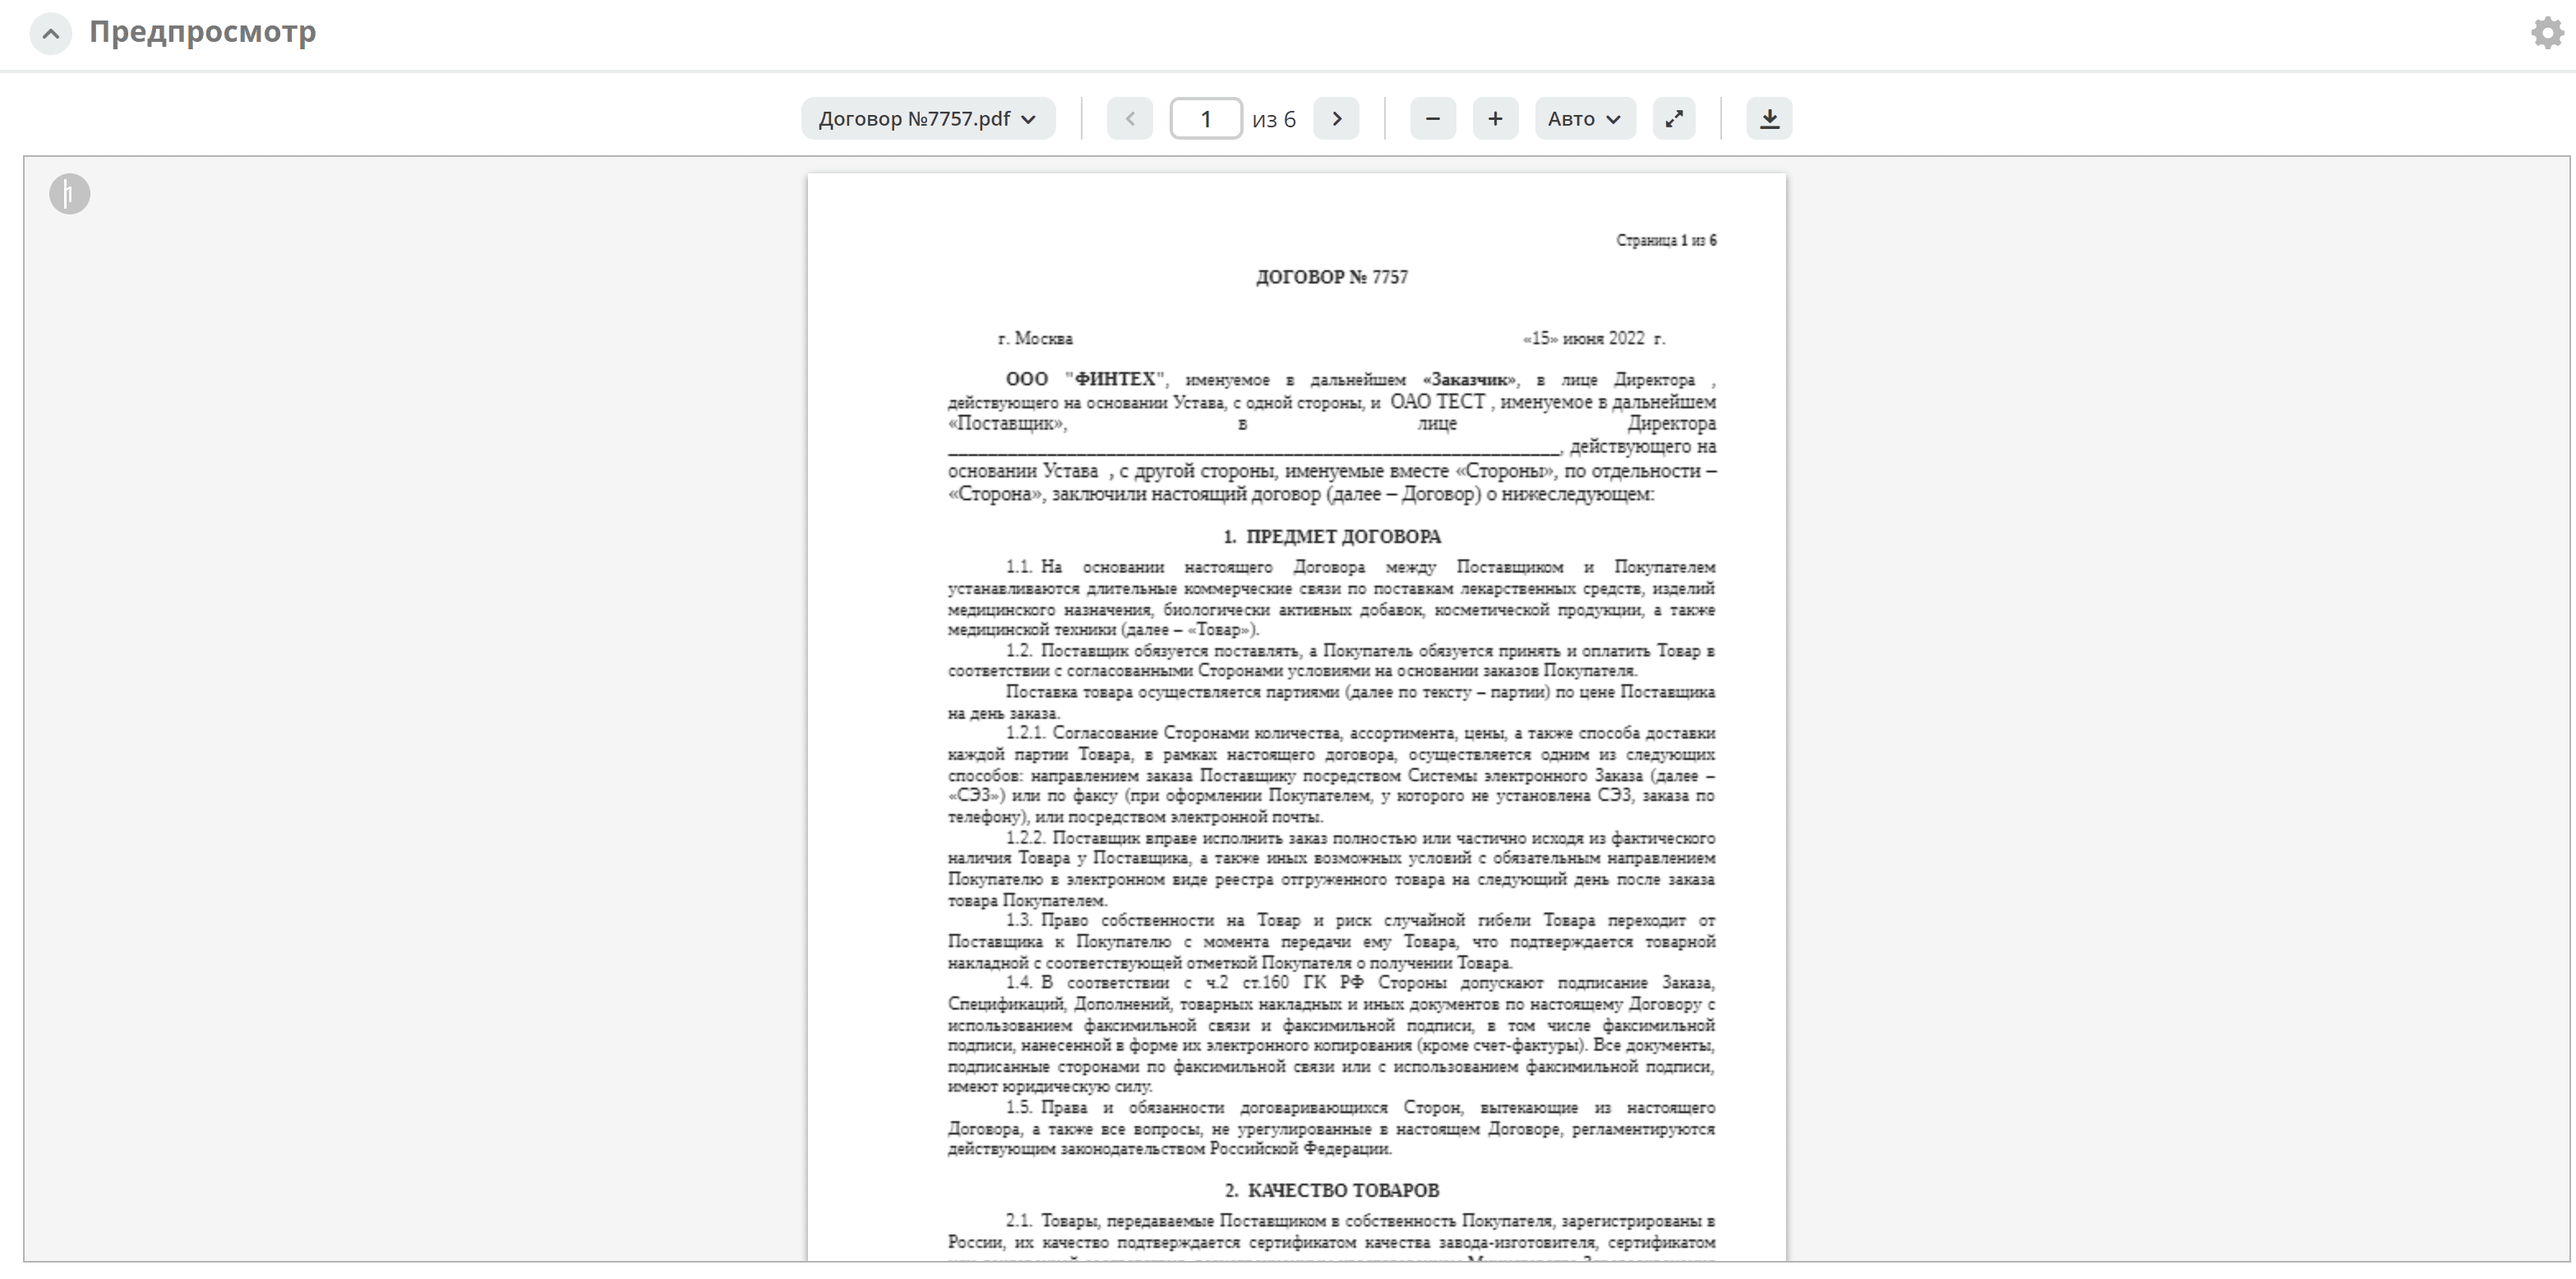
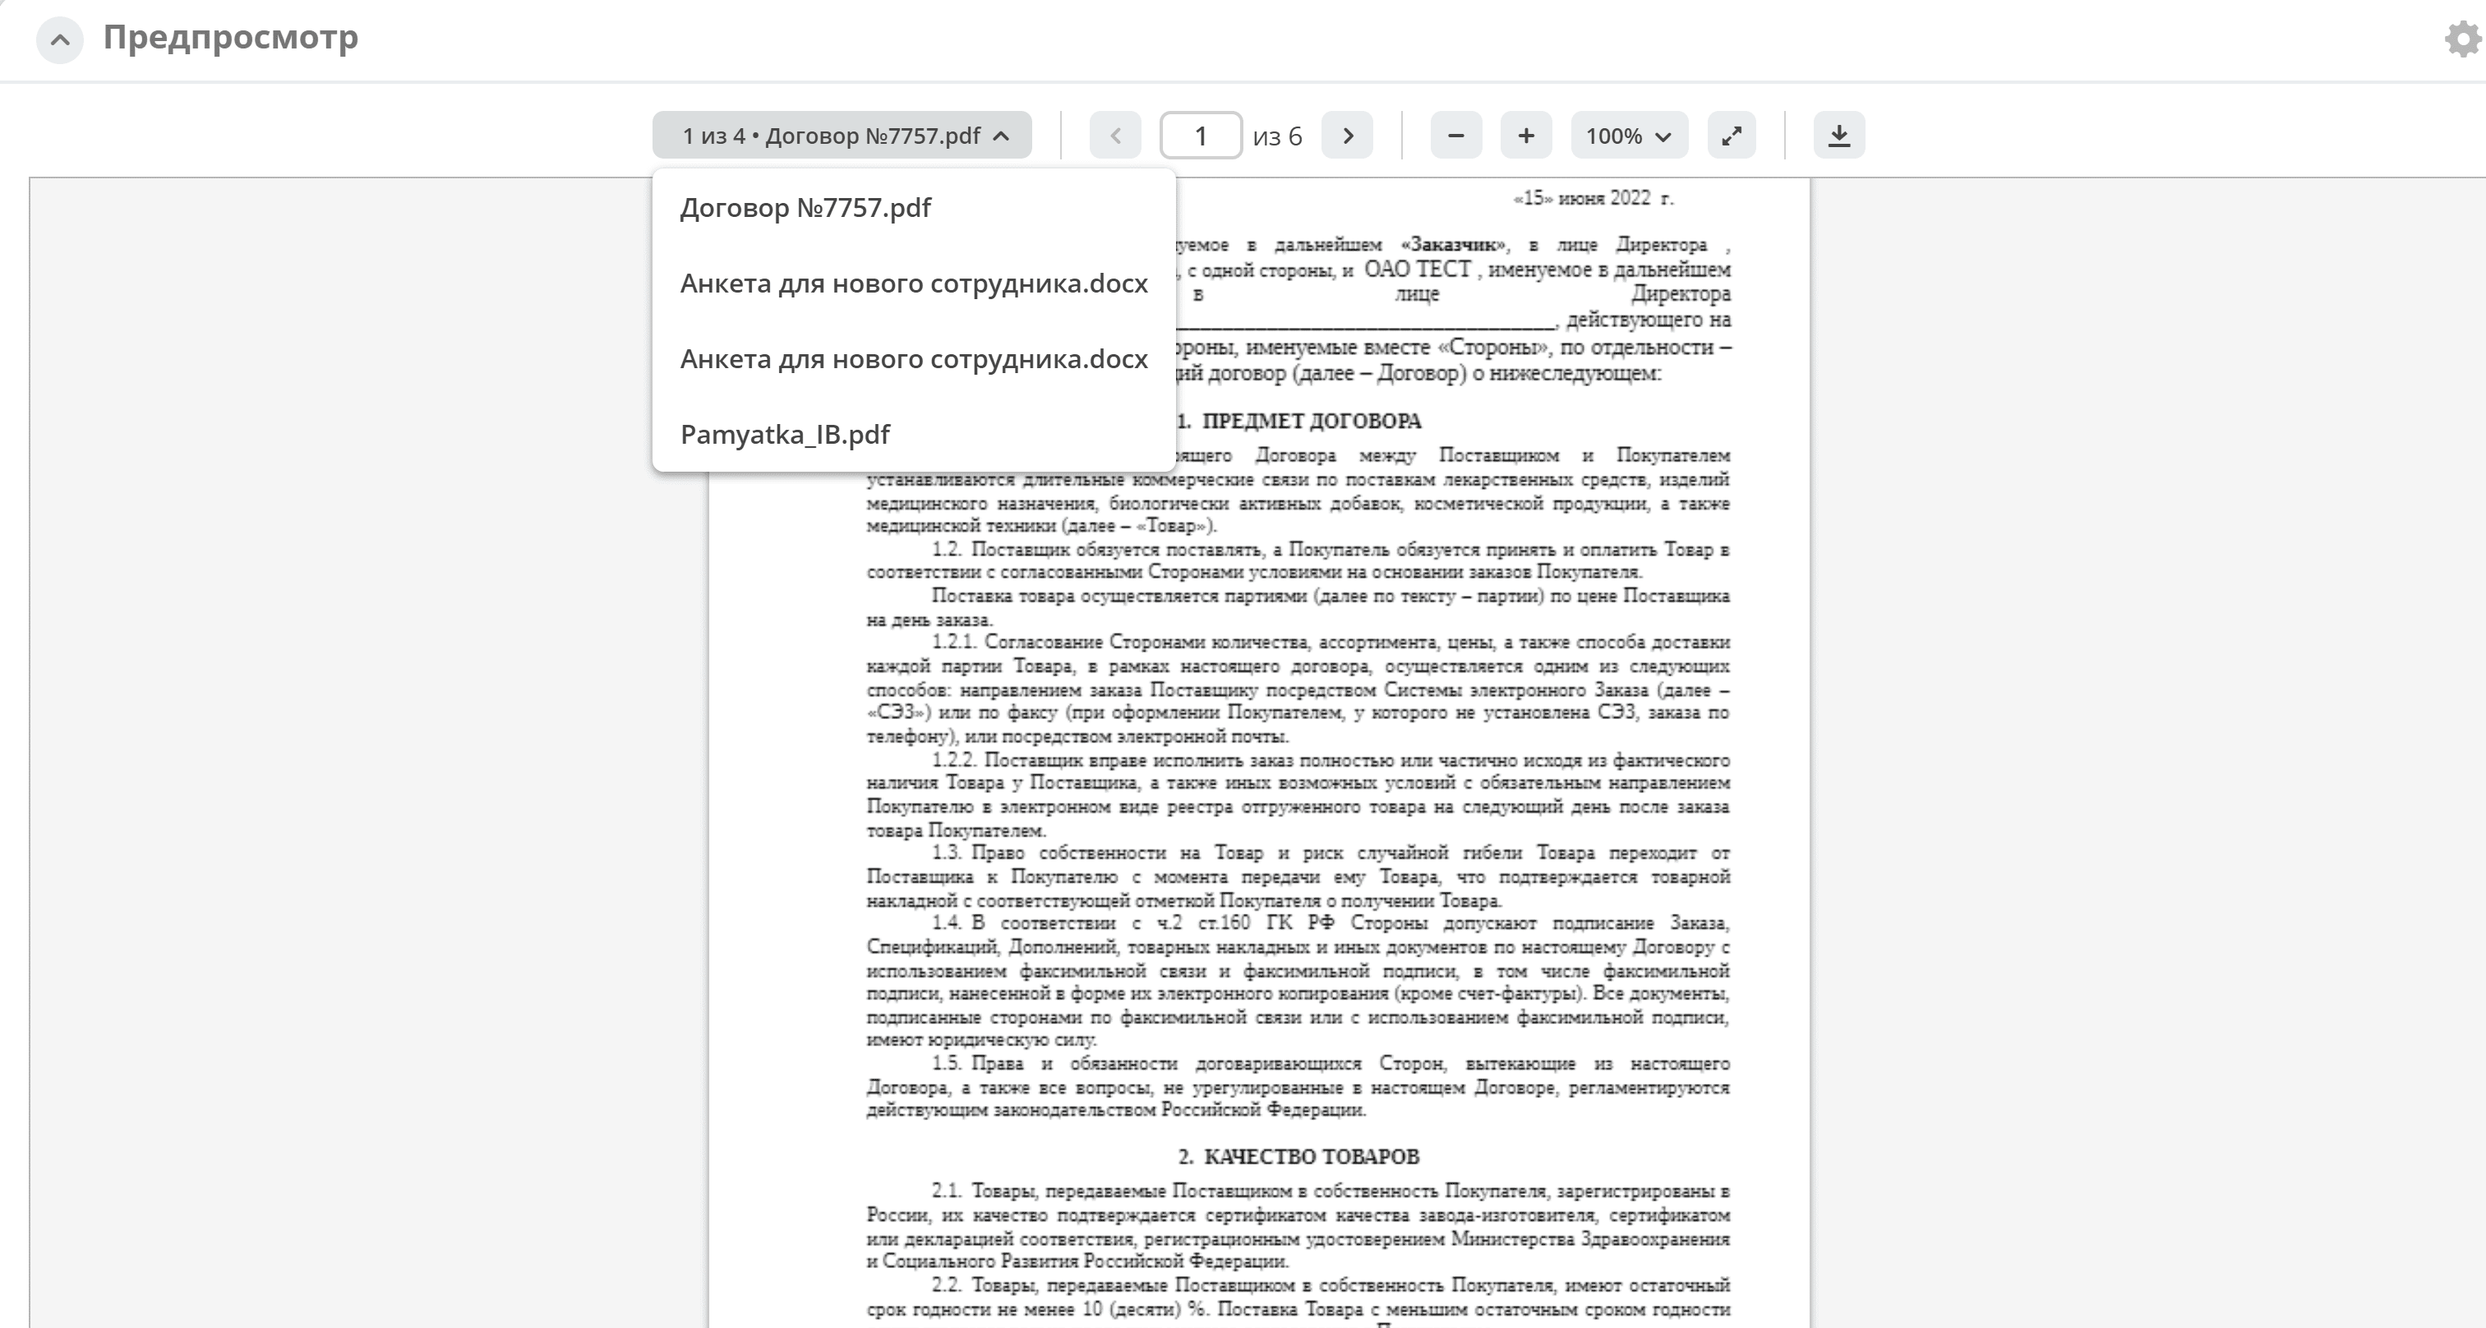
Preview widget

diff --git a/docs/settings_kb/interface/widgets.rst b/docs/settings_kb/interface/widgets.rst
@@ -75,20 +75,26 @@
 
 Ключ ``doc-preview``
 
-Виджет предпросмотра служит для отображения основного документа и всех вложенных из атрибута «Содержимое». Позволяет осуществить скачивание оригинала документа.
+Виджет предпросмотра служит для отображения основного документа и всех связанных из атрибута «Содержимое». Позволяет осуществлять скачивание не только основного, а текущего открытого документа.
 
-Документы переключаются скроллированием. Первым отображается основной контент **cm:content**, затем дочерние элементы с типом **idocs:doc**.
+Оригиналы документов могут быть других расширений, но виджет показывает только картинки или сгенерированные pdf на базе основного.
 
- .. image:: _static/widgets/Preview_1.png
-       :width: 800
-
-
-Настройка виджета, чтобы можно было переключаться между просмотром только основного контент и основного контента + дополнительных документов.
+С включённой настройкой в виджете показываются все связанные документы.
  
  .. image:: _static/widgets/Preview_2.png
        :width: 400
 
-При переключениях между документами перегружается не виджет целиком, а только контент внутри.
+
+Первым отображается основной контент **cm:content**, затем дочерние элементы с типом **idocs:doc**. 
+
+Если основной отсутствует, то отобразится следующий документ.
+
+Переход между документами осуществляется через дропдаун или скролл. Количество документов указано в дропдауне:
+
+ .. image:: _static/widgets/Preview_1.png
+       :width: 800
+
+Содержимое виджета обновляется при изменениях основного и связанных документов.
 
 
 Виджет «Комментарии»

diff --git a/docs/settings_kb/interface/forms/form_components/components_common.rst b/docs/settings_kb/interface/forms/form_components/components_common.rst
@@ -1,8 +1,8 @@
 Общее описание
 ===============
 
-Basic components
-----------------
+Основные компоненты
+--------------------
 
 Text Field
 ~~~~~~~~~~~~~~~
@@ -77,8 +77,8 @@ Button
 `См. подробное описание Button на Form.io <https://help.form.io/userguide/forms/form-components#button>`_  
 
 
-Advanced
-----------
+Расширенные
+------------
 
 ML Text
 ~~~~~~~~~~~~~~~
@@ -162,7 +162,7 @@ Select Action
 
 `См. подробное описание Select Action на Form.io <https://help.form.io/userguide/forms/form-components#select>`_ 
 
-Layout
+Макет
 -------
 
 Horizontal Line
@@ -204,8 +204,8 @@ Tabs
 
 `См. подробное описание Tabs на Form.io <https://help.form.io/userguide/forms/layout-components#tabs>`_ 
 
-Data
-------		
+Данные
+--------		
 
 Hidden
 ~~~~~~~~~~~~~~~
